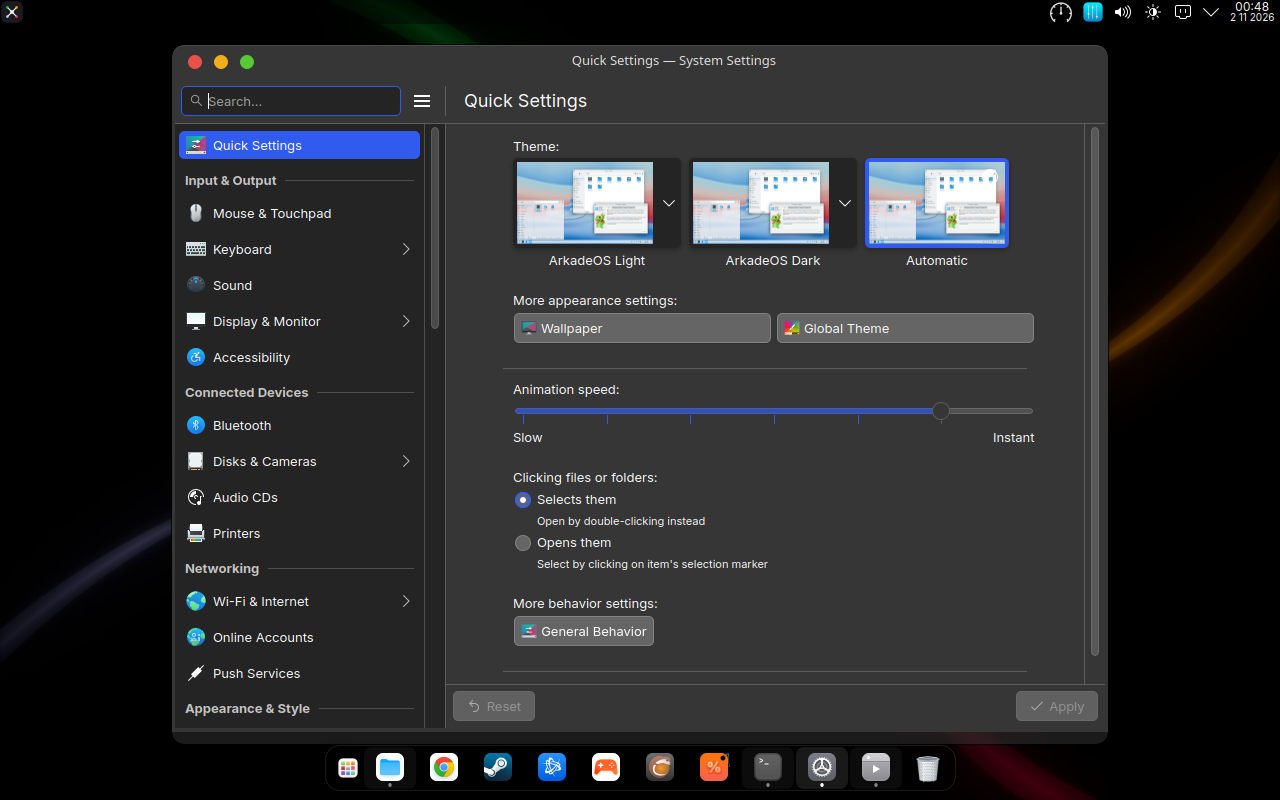
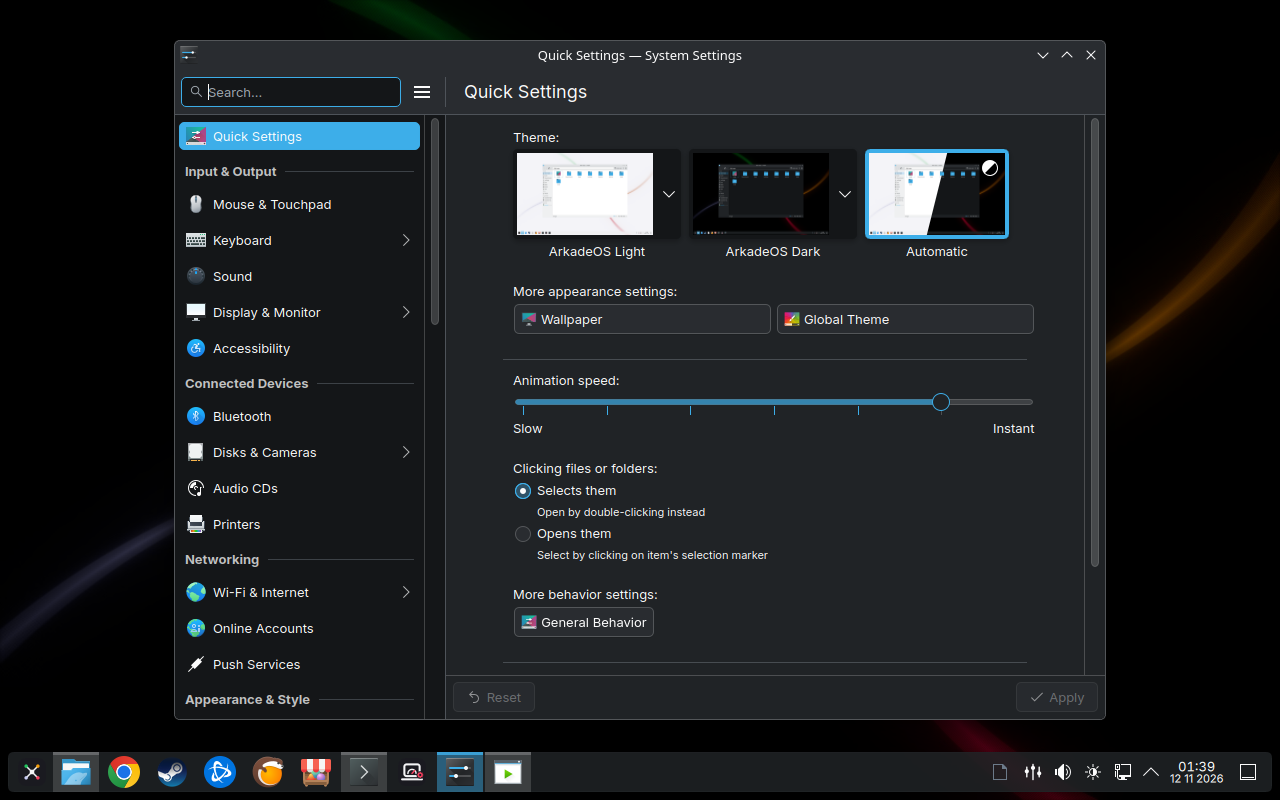
README: Fedora 45, today's look in the screenshots, features marked implemented
Roland, 2026-11-12: a feature that is in the image is "implemented", one
still being built is "under development"; no "testing" labels.

- Every feature row says implemented. WowUp has its own row, with CurseForge
  (T015).
- The five screenshots are from the 12 November build: they still showed the
  look of 2 November (top bar, dock), which the text no longer describes.
- Project status: the Fedora 45 base (T085), the size of a small update
  (T076), the check counts of today's run. The counts are the checks
  themselves; the old numbers counted the lines of a log that prints some
  results twice.
- Install: the stable channel exists, so the switch command names it; the
  sentence that only one channel exists is gone.
- Build it yourself: the build needs the GE-Proton release as an argument,
  the plain command stopped at the Proton step.

diff --git a/README.md b/README.md
@@ -3,7 +3,7 @@
 **Fast, gaming-first Linux built on Fedora Atomic.**
 A clean KDE Plasma desktop, one image for NVIDIA, AMD and Intel graphics, Steam and Proton, Battle.net, smart power profiles, and atomic updates you can roll back.
 
-> **Status: early development, testing builds only (November 2026).** Not ready for daily use yet. "In testing" means the feature is in the image and checked automatically in a virtual machine on every build; "tested on hardware" means it was also tried on a real gaming laptop. See [Project status](#project-status).
+> **Status: early development (November 2026).** Not ready for daily use yet. "Implemented" means the feature is in the image; "under development" means it is still being built. See [Project status](#project-status).
 
 ![ArkadeOS desktop, dark look](art/screenshots/desktop-dark.png)
 
@@ -20,39 +20,40 @@ A clean KDE Plasma desktop, one image for NVIDIA, AMD and Intel graphics, Steam 
 
 | | Feature | Status |
 |---|---|---|
-| 🎮 | Steam, Proton-GE, Proton Experimental, Gamescope, MangoHud (set up in MangoJuice), GameMode, Protontricks | in testing |
-| ⚔ | One-click Battle.net with World of Warcraft, WowUp for addons | **tested on hardware** |
-| 🛒 | EA app, Ubisoft Connect, Heroic (Epic, GOG, Amazon), Lutris | in testing |
-| 🪟 | Borderless windowed games run full screen, above the taskbar | in testing |
-| 🎞 | Frame generation (lsfg-vk) per game, instant replay (GPU Screen Recorder) | in testing |
-| 💬 | Discord preinstalled, Vesktop optional for Wayland screen sharing with audio | in testing |
-| 🧲 | qBittorrent: free, open-source torrent client without ads (ticked by default, can be left out) | in testing |
-| 🎙 | Microphone noise filter and low-latency audio | in testing |
-| ⚡ | Gaming kernel, sched_ext scheduler, NTSYNC | in testing |
-| 🔋 | Power profiles: Battery, Balanced, Gaming, Max, WoW, switching automatically, per game | **tested on hardware** |
-| 💻 | ASUS gaming laptops (asusctl): the power profile also sets the firmware mode | **tested on hardware** |
-| 💻 | MSI (msi-ec, MControlCenter), Lenovo Legion (LenovoLegionLinux); battery care at 80% | in testing |
-| 🌈 | RGB that follows the power profile (OpenRGB, ASUS Aura) | **tested on hardware** |
-| 🖱 | Logitech and Razer mice, ASUS ROG keyboards, monitor control, LACT for the graphics card | in testing |
-| 🖥 | KDE Plasma 6 with Breeze, light and dark switching by the time of day, one taskbar | in testing |
-| 📌 | Anything pinned on the taskbar stays there: Steam games, Windows programs, Chrome web apps | in testing |
-| 🧩 | ArkadeOS Portal: pick apps at first login, add or remove anything later | in testing |
-| 🤖 | Optional AI tools: Claude and Codex, desktop apps and command line | in testing |
-| 🔄 | Atomic image updates with rollback, builds of the last 90 days, factory reset that keeps your files | in testing |
-| 📦 | Small updates: ArkadeOS's own files, Proton-GE and the boot image are layers of their own, so an update downloads only the part that changed | in testing |
-| 💿 | Installer next to Windows, with Windows in the boot menu; shows the download's progress and time left | in testing |
-| 🔒 | Encrypted disk unlocked by the TPM, firewall on, telemetry off, nothing running in the background unless you turn it on | in testing |
+| 🎮 | Steam, Proton-GE, Proton Experimental, Gamescope, MangoHud (set up in MangoJuice), GameMode, Protontricks | implemented |
+| ⚔ | One-click Battle.net with World of Warcraft | implemented |
+| 🧰 | WowUp addon manager with CurseForge, finds the WoW folder by itself | implemented |
+| 🛒 | EA app, Ubisoft Connect, Heroic (Epic, GOG, Amazon), Lutris | implemented |
+| 🪟 | Borderless windowed games run full screen, above the taskbar | implemented |
+| 🎞 | Frame generation (lsfg-vk) per game, instant replay (GPU Screen Recorder) | implemented |
+| 💬 | Discord preinstalled, Vesktop optional for Wayland screen sharing with audio | implemented |
+| 🧲 | qBittorrent: free, open-source torrent client without ads (ticked by default, can be left out) | implemented |
+| 🎙 | Microphone noise filter and low-latency audio | implemented |
+| ⚡ | Gaming kernel, sched_ext scheduler, NTSYNC | implemented |
+| 🔋 | Power profiles: Battery, Balanced, Gaming, Max, WoW, switching automatically, per game | implemented |
+| 💻 | ASUS gaming laptops (asusctl): the power profile also sets the firmware mode | implemented |
+| 💻 | MSI (msi-ec, MControlCenter), Lenovo Legion (LenovoLegionLinux); battery care at 80% | implemented |
+| 🌈 | RGB that follows the power profile (OpenRGB, ASUS Aura) | implemented |
+| 🖱 | Logitech and Razer mice, ASUS ROG keyboards, monitor control, LACT for the graphics card | implemented |
+| 🖥 | KDE Plasma 6 with Breeze, light and dark switching by the time of day, one taskbar | implemented |
+| 📌 | Anything pinned on the taskbar stays there: Steam games, Windows programs, Chrome web apps | implemented |
+| 🧩 | ArkadeOS Portal: pick apps at first login, add or remove anything later | implemented |
+| 🤖 | Optional AI tools: Claude and Codex, desktop apps and command line | implemented |
+| 🔄 | Atomic image updates with rollback, builds of the last 90 days, factory reset that keeps your files | implemented |
+| 📦 | Small updates: ArkadeOS's own files, Proton-GE and the boot image are layers of their own, so an update downloads only the part that changed | implemented |
+| 💿 | Installer next to Windows, with Windows in the boot menu; shows the download's progress and time left | implemented |
+| 🔒 | Encrypted disk unlocked by the TPM, firewall on, telemetry off, nothing running in the background unless you turn it on | implemented |
 
 ## Screenshots
 
 | | |
 |---|---|
-| ![Light look with the Finder-style file manager](art/screenshots/desktop-light.png) | ![Quick Settings: ArkadeOS Light, Dark or Automatic](art/screenshots/settings.png) |
-| Light look, Finder-style file manager | Quick Settings: light, dark or automatic |
-| ![ArkadeOS Portal: tick to install, untick to remove](art/screenshots/portal.png) | ![Login screen](art/screenshots/login.png) |
-| ArkadeOS Portal: tick to install, untick to remove | Login screen |
+| ![Light look](art/screenshots/desktop-light.png) | ![Quick Settings: ArkadeOS Light, Dark or Automatic](art/screenshots/settings.png) |
+| Light look | Quick Settings: light, dark or automatic |
+| ![ArkadeOS Portal at the first login: tick what you want](art/screenshots/portal.png) | ![Login screen](art/screenshots/login.png) |
+| ArkadeOS Portal at the first login: tick what you want, change it any time | Login screen |
 
-Taken by the automatic VM test of the 2 November 2026 testing build (1280×800 virtual screen).
+Taken automatically from the 12 November 2026 build in a virtual machine (1280×800 screen).
 
 ## Supported graphics cards
 
@@ -70,10 +71,10 @@ One image, `arkadeos`, serves every supported card. Machines installed from the 
 
 **ISO:** a public download comes with the beta. Today's installer ISOs are test builds. They download the newest system image while installing, so the system you get is always up to date.
 
-**Already on Fedora Atomic, Bazzite or another bootc system?** Switch to ArkadeOS. Until the first stable release only the testing channel exists:
+**Already on Fedora Atomic, Bazzite or another bootc system?** Switch to ArkadeOS:
 
 ```bash
-sudo bootc switch ghcr.io/tenarkhq/arkadeos:testing
+sudo bootc switch ghcr.io/tenarkhq/arkadeos:stable
 ```
 
 Reboot to finish. The same image works with NVIDIA, AMD and Intel graphics.
@@ -84,7 +85,7 @@ Reboot to finish. The same image works with NVIDIA, AMD and Intel graphics.
 arkadeos-update rollback
 ```
 
-The ArkadeOS Portal does the same from a window, and also switches the channel (stable or testing) and goes back to any build of the last 90 days.
+The ArkadeOS Portal does the same from a window, and also switches the channel (stable, or testing for each build three days earlier) and goes back to any build of the last 90 days.
 
 ## Power profiles
 
@@ -98,23 +99,25 @@ The ArkadeOS Portal does the same from a window, and also switches the channel (
 
 ## Project status
 
-*Updated 2 November 2026.*
+*Updated 12 November 2026.*
 
-**Every build is tested automatically.** Each change to `main` builds the image and boots it in a virtual machine that logs in, opens the apps, switches the looks and profiles, starts a Windows program under Proton, updates and rolls back. A separate test installs ArkadeOS from the ISO onto an encrypted disk and boots the installed system. Latest results:
+**Built on Fedora 45 since 12 November 2026:** Bazzite's Fedora 45 base with kernel 7.3, KDE Plasma 6.8, Mesa 26.2 and NVIDIA driver 620. The stable channel gets it three days later. An update that changes only ArkadeOS's own files downloads about 7 MB of the 6 GB image.
+
+**Every build is tested automatically.** Each change to `main` builds the image and boots it in a virtual machine that logs in, opens the apps, switches the looks and profiles, starts a Windows program under Proton, updates and rolls back. A separate test installs ArkadeOS from the ISO onto an encrypted disk and boots the installed system. Latest results (12 November 2026):
 
 | Test | Checks | Result |
 |---|---|---|
-| `arkadeos` image in a VM | 159 | ✅ all pass |
-| Optional apps from the Portal | 40 | ✅ all pass |
-| Update from the previous build | 9 | ✅ all pass |
-| Install from the ISO (encryption, TPM unlock, Intel RST, download progress) | 60 | ✅ all pass |
+| `arkadeos` image in a VM | 191 | ✅ all pass |
+| Optional apps from the Portal | 18 | ✅ all pass |
+| Update from the previous build | 12 | ✅ all pass |
+| Install from the ISO (encryption, TPM unlock, Intel RST, download progress) | 42 | ✅ all pass (9 November) |
 
 **First tests on real hardware** (1 November 2026, ASUS gaming laptop with an NVIDIA RTX 5070 Laptop GPU):
 
 | What | Result |
 |---|---|
 | Battle.net installs, World of Warcraft starts and runs | ✅ |
-| WowUp finds the WoW folder, installs and updates addons | ✅ |
+| WowUp finds the WoW folder, installs and updates addons (the edition with Wago; the CurseForge edition took its place on 12 November) | ✅ |
 | Unplugging the charger switches to Battery, starting WoW switches to the WoW profile | ✅ |
 | The power profile also sets ASUS's firmware mode (Quiet, Balanced, Performance) | ✅ |
 | The keyboard lighting follows the power profile | ✅ |
@@ -149,12 +152,14 @@ Measured the same way on both systems: the same World of Warcraft folder copied 
 ```bash
 git clone https://github.com/tenarkhq/ArkadeOS.git
 cd ArkadeOS
-podman build -t arkadeos -f Containerfile .
+podman build -t arkadeos --build-arg PROTON_GE_VERSION=GE-Proton11-12 -f Containerfile .
 ```
+
+`PROTON_GE_VERSION` is the GE-Proton release that goes into the image: the newest name on [its releases page](https://github.com/GloriousEggroll/proton-ge-custom/releases). The build starts from Bazzite's newest base; `--build-arg BASE_IMAGE=…` with the image named in `bases.txt` gives the base this commit was tested on.
 
 ## Built on
 
-- [Fedora Atomic](https://fedoraproject.org/atomic-desktops/)
+- [Fedora Atomic](https://fedoraproject.org/atomic-desktops/) 45
 - [Bazzite](https://bazzite.gg) and [Universal Blue](https://universal-blue.org)
 - [KDE Plasma](https://kde.org/plasma-desktop/)
 
